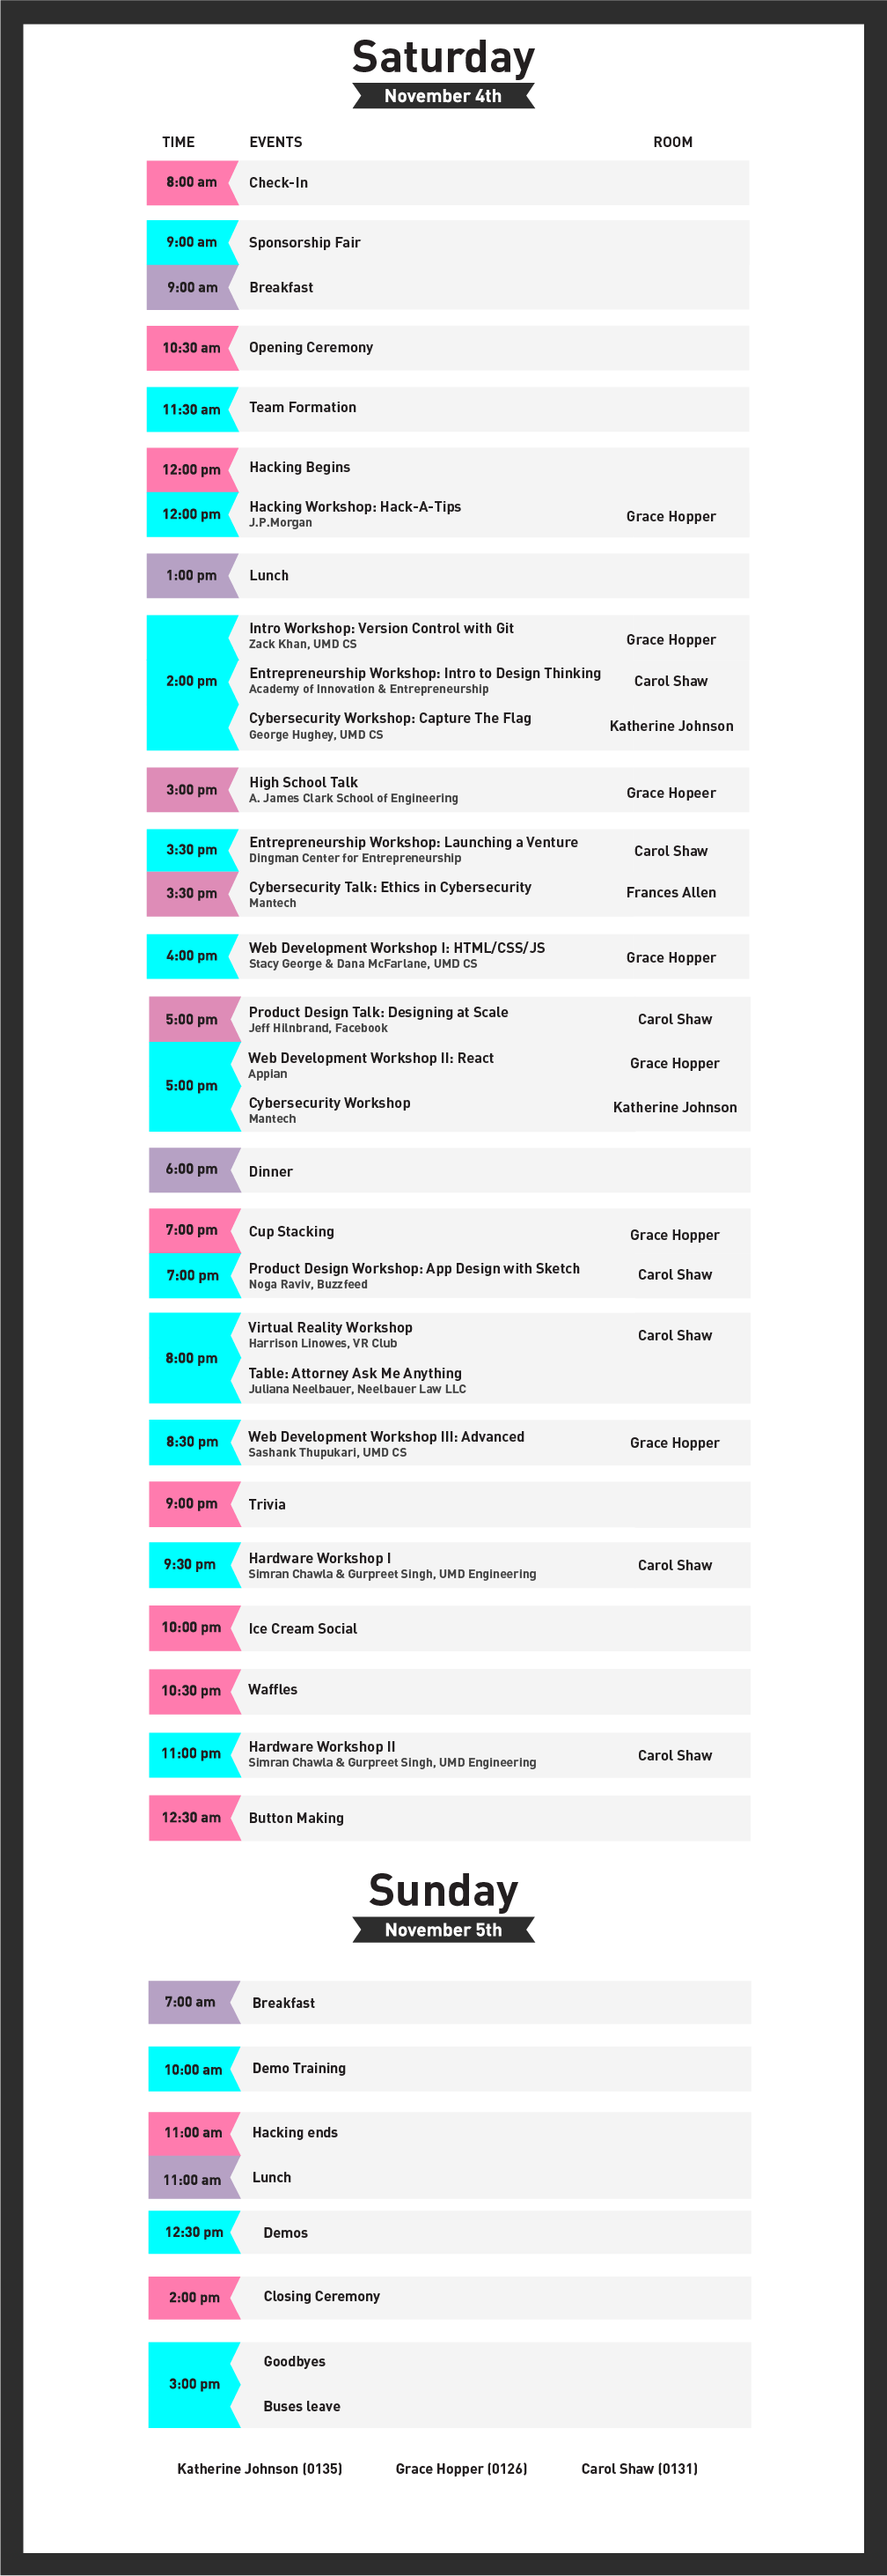
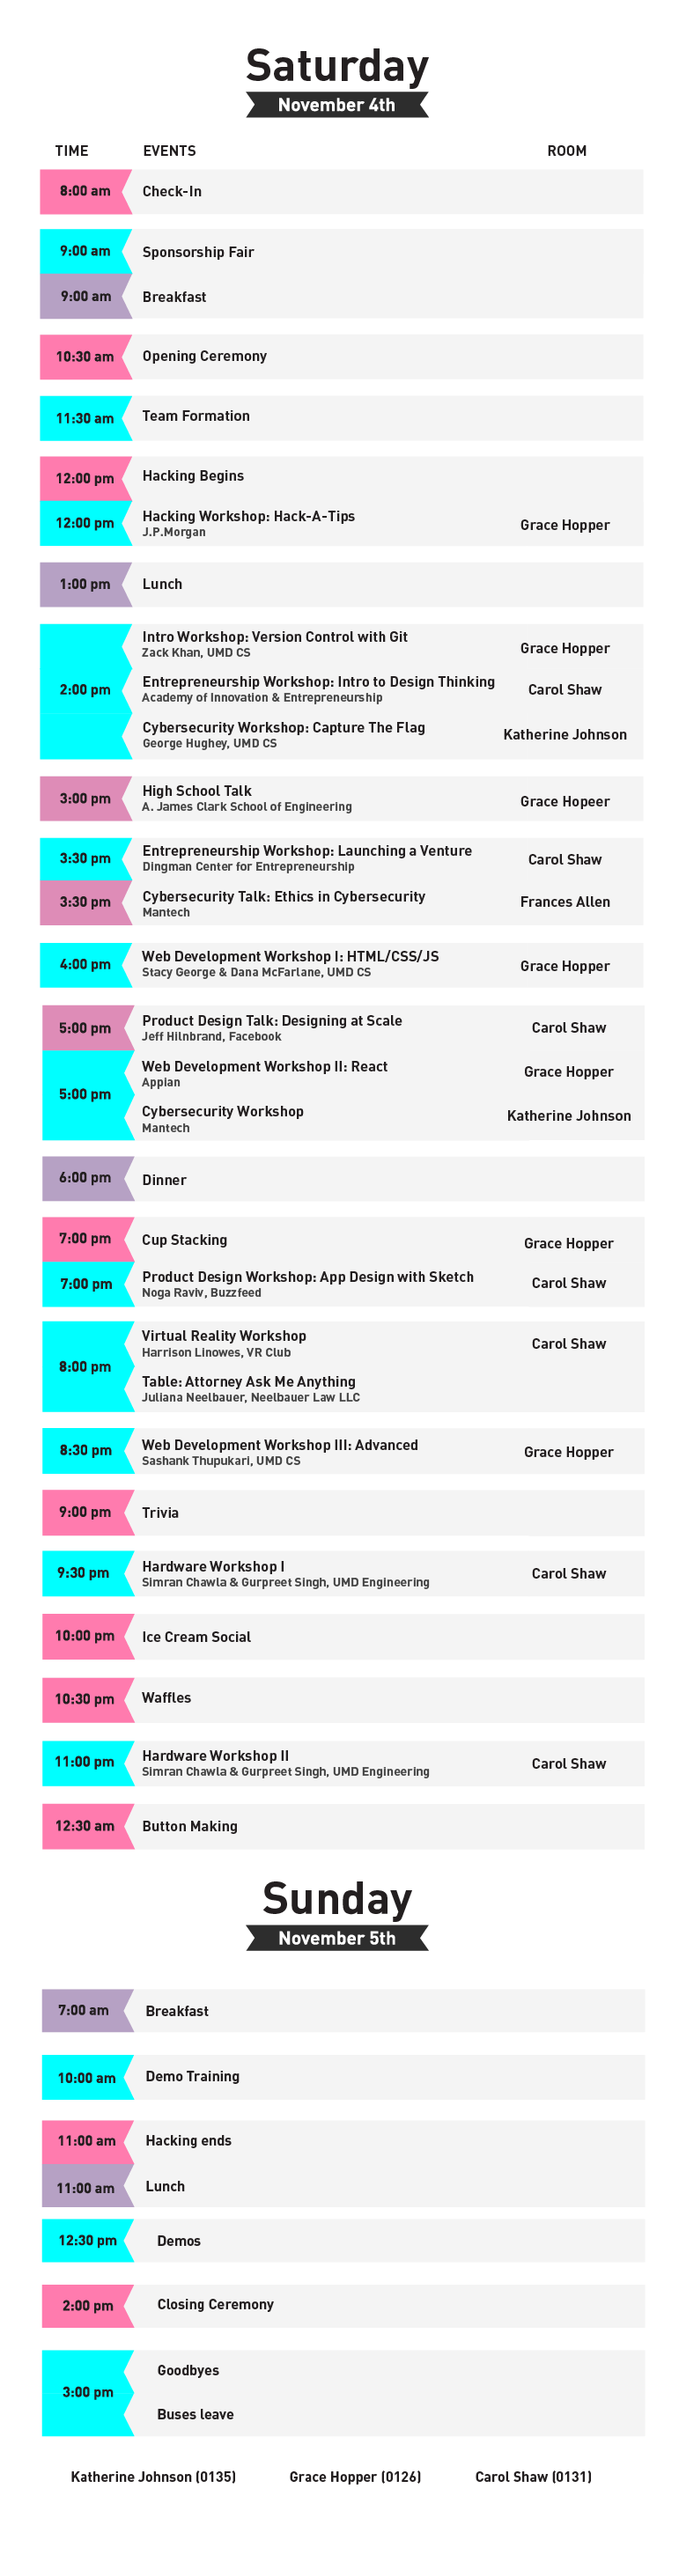
added official schedule to site

diff --git a/index.html b/index.html
@@ -49,8 +49,6 @@
     <meta name="description" content="All-women hackathon at University of Maryland." />
     <meta name="robots" content="NOODP, index, follow" />
     <meta itemprop="name" content="Technica">
-    <!-- <meta itemprop="description" content="All-women hackathon at University of Maryland.">
-    <meta itemprop="image" content="/img/logo-black.png"> -->
 
     <!-- Twitter Card data -->
     <meta name="twitter:card" content="summary_large_image">
@@ -119,7 +117,7 @@
                     <li><a class="page-scroll" href="#sponsors">Sponsors</a>  </li>
                     <li><a class="page-scroll" href="#faq">FAQ</a> </li>
                     <li><a class="page-scroll" href="#travel">Travel</a></li>
-                    <li><a class="page-scroll" href="#milestones">Milestones</a></li>
+                    <li><a class="page-scroll" href="#schedule">Schedule</a></li>
                     <li><a class="page-scroll" href="#contact">Contact</a></li>
                 </ul>
             </div>
@@ -661,7 +659,7 @@
     </section>
 
     <!-- Timeline/Milestones Section -->
-    <section id="milestones">
+    <!-- <section id="milestones">
         <div class="container">
             <div class="row">
                 <div class="col-lg-12 text-center">
@@ -749,9 +747,10 @@
                 </div>
             </div>
         </div>
-    </section>
+    </section> -->
 
-    <!-- <section id="schedule">
+    <!-- SCHEDULE -->
+    <section id="schedule">
         <div class="container">
             <div class="row">
                 <div class="col-lg-12 text-center">
@@ -760,23 +759,12 @@
             </div>
             <div class="row text-center">
                 <div class="col-lg-12">
-                    <img class="img-responsive center-block zoom" src="img/schedule_mobile.png" />
+                    <img class="img-responsive center-block hidden_desktop" src="img/schedule_desktop.png" />
+                    <img class="img-responsive center-block hidden_mobile" src="img/schedule_mobile.png" />
                 </div>
             </div>
         </div>
-    </section> -->
-
-    <!-- Team Section -->
-    <!-- <section class="bg-light-gray" id="team">
-        <div class="container">
-            <div class="row">
-                <div class="col-lg-12 text-center">
-                    <h2 class="section-heading">Our Amazing Team</h2>
-                    <h3 class="section-subheading text-muted">Pictures coming soon!</h3>
-                </div>
-            </div>
-    </section> -->
-
+    </section>
 
     <!-- Contact Section -->
     <section id="contact">

diff --git a/css/main.css b/css/main.css
@@ -16,11 +16,18 @@
    src: url('../fonts/DINPro-Bold.otf');
  }
 
-/*.zoom {
-  -moz-transform: scale(1.0);
-  -webkit-transform: scale(1.0);
-  transform: scale(1.1);
-}*/
+
+/* CSS for displaying mobile/desktop versions of schedule */
+ @media screen and (min-width:768px) {
+     .hidden_mobile {
+         display:none;
+     }
+ }
+ @media screen and (max-width:767px) {
+     .hidden_desktop {
+         display:none;
+     }
+ }
 
  /*#main-nav{
    background-color: #ff7bac;
